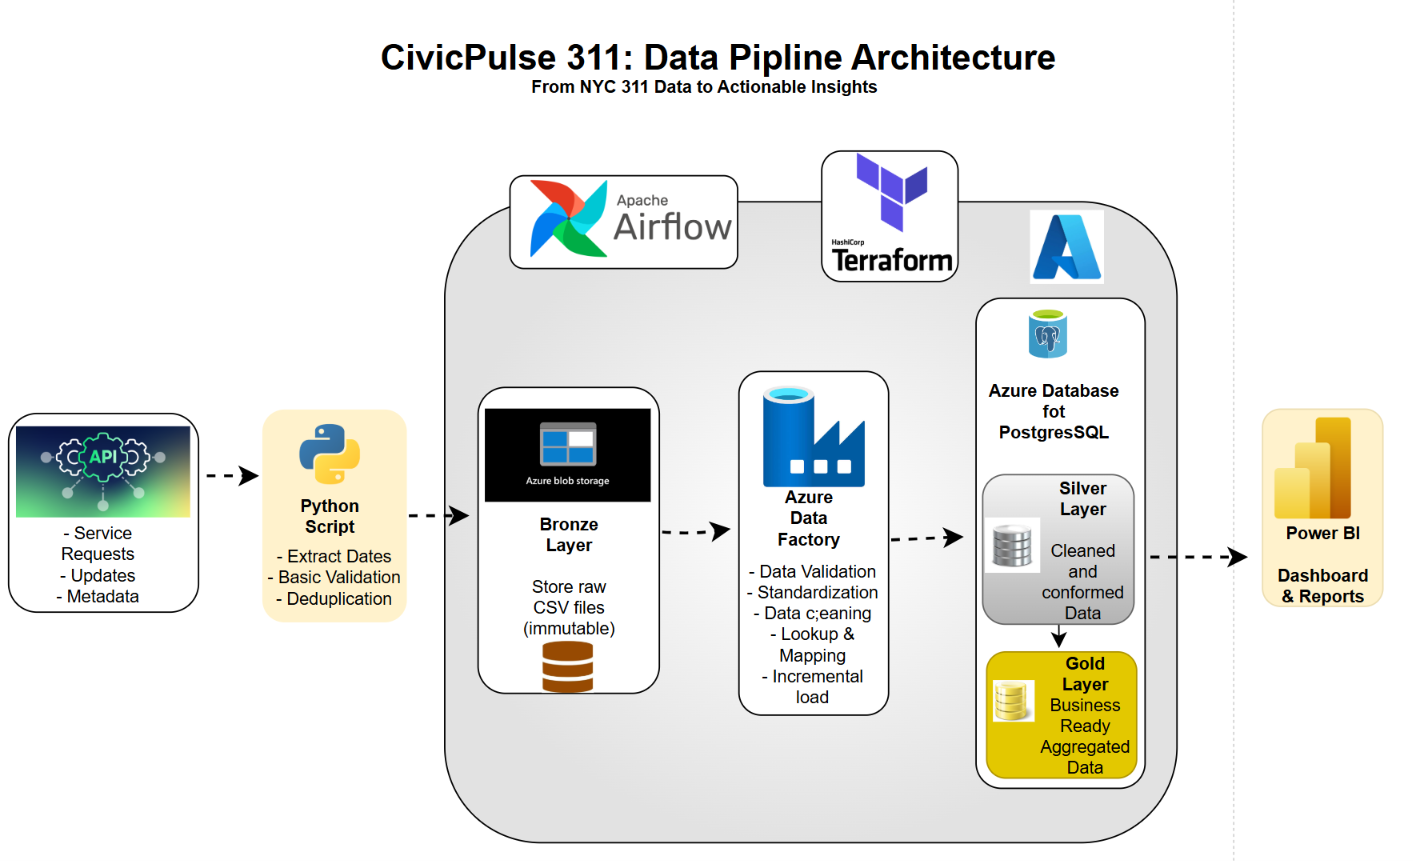
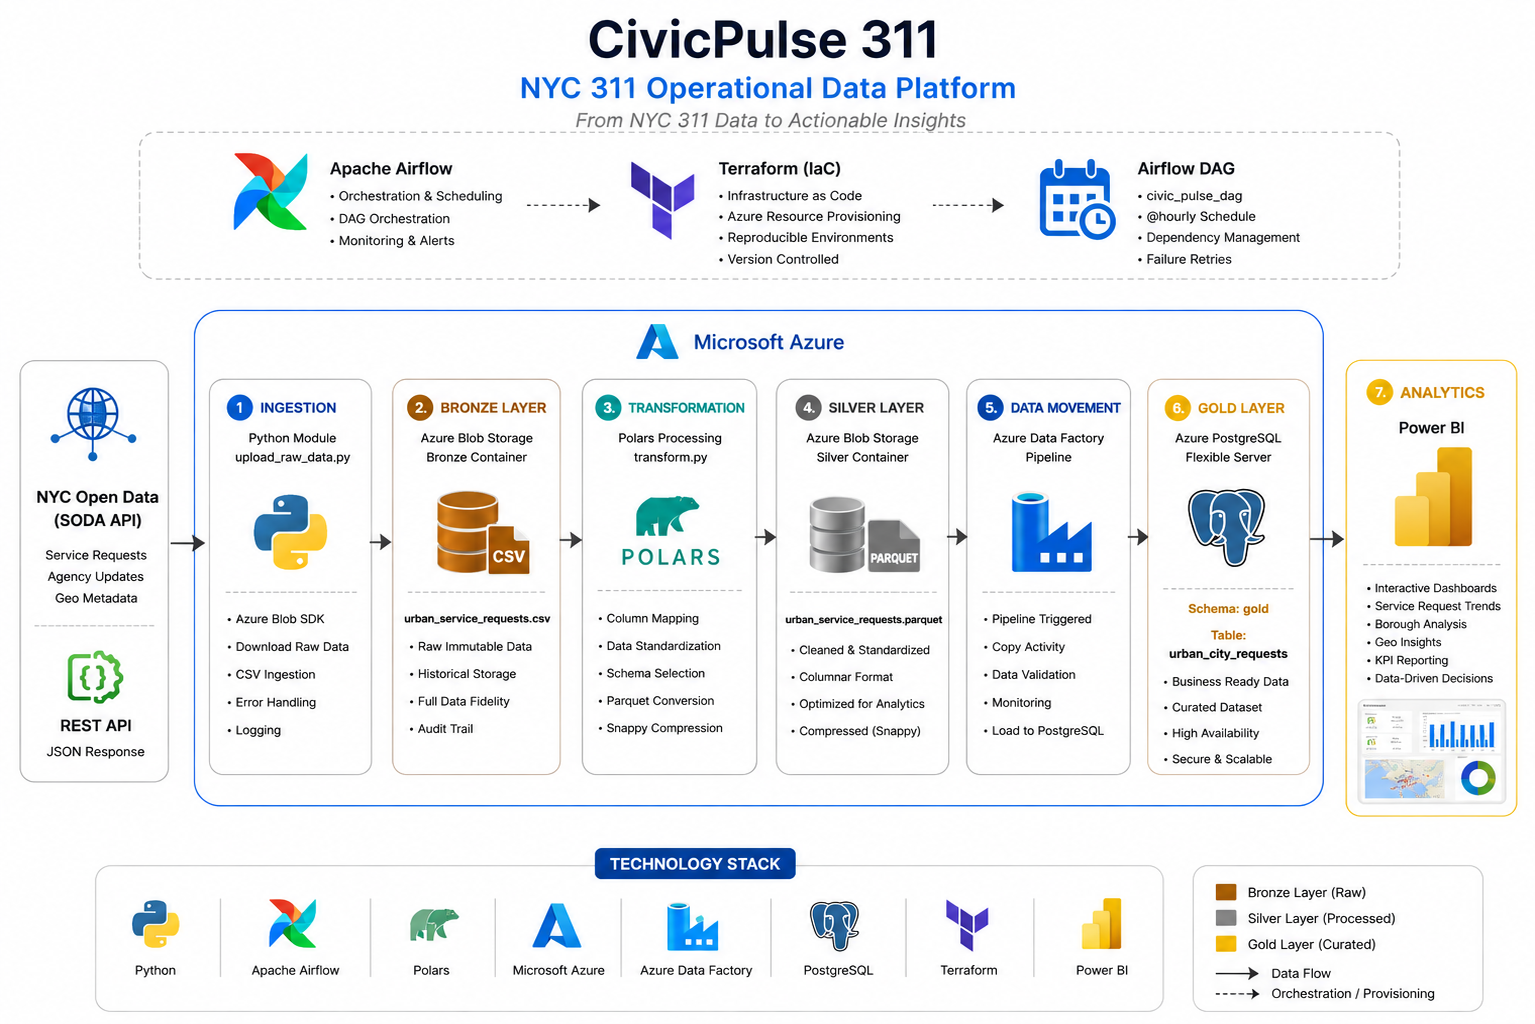
chore(Readme): Updated Readme with detailed architecture, schema, and setup guide, also updated pipeline architecture image

diff --git a/README.md b/README.md
@@ -1,5 +1,6 @@
 # CivicPulse 311 — NYC 311 Operational Data Platform
 
+<<<<<<< HEAD
 CivicPulse 311 is an end-to-end cloud data platform designed to ingest, process, and analyze real-time NYC 311 non-emergency service request data. By modernizing static reporting into an automated analytics architecture, this platform empowers municipal agencies with actionable insights to track SLA compliance, manage request backlogs, and optimize resource allocation across New York City boroughs.
 
 ## 🏗 Architecture Overview
@@ -14,6 +15,180 @@ The platform uses a Lakehouse Medallion Architecture orchestrating data flow fro
 ## 🗂 Repository Structure
 
 ```text
+=======
+An end-to-end Azure cloud data engineering pipeline that transforms NYC 311 service request data into analytics-ready datasets using Apache Airflow, Polars, Azure Blob Storage, Azure Data Factory, PostgreSQL, Terraform, and Power BI.
+
+## 📖 Overview
+
+CivicPulse 311 is a cloud-native data engineering project that automates the ingestion, transformation, storage, and delivery of NYC 311 Open Data for operational reporting and analytics.
+
+The platform follows a Medallion (Bronze–Silver–Gold) Architecture, enabling raw API data to be progressively refined into trusted, business-ready datasets. Infrastructure is provisioned using Terraform, orchestration is managed by Apache Airflow, transformations are performed with Polars, and curated data is stored in Azure Database for PostgreSQL for reporting in Power BI.
+
+This project demonstrates modern data engineering practices including:
+
+Automated pipeline orchestration
+Cloud object storage
+Data lake architecture
+Infrastructure as Code (IaC)
+Incremental ETL processing
+Analytics-ready data modelling
+
+## 🏗 Solution Architecture
+
+## Pipeline Flow
+
+NYC Open Data (SODA API)
+            │
+            ▼
+Python Ingestion Module
+(upload_raw_data.py)
+            │
+            ▼
+Azure Blob Storage
+Bronze Layer (CSV)
+            │
+            ▼
+Polars Transformation
+(transform.py)
+            │
+            ▼
+Azure Blob Storage
+Silver Layer (Parquet)
+            │
+            ▼
+Azure Data Factory
+            │
+            ▼
+Azure PostgreSQL
+Gold Layer
+            │
+            ▼
+Power BI Dashboards
+
+## 🚀 Key Features
+
+- Automated hourly data ingestion with Apache Airflow
+- Raw data landing in Azure Blob Storage (Bronze Layer)
+- High-performance transformation using Polars LazyFrame
+- Conversion from CSV to compressed Parquet
+- Medallion Architecture (Bronze → Silver → Gold)
+- Azure Data Factory pipeline integration
+- PostgreSQL analytical data warehouse
+- Infrastructure provisioned using Terraform
+- Dashboard-ready data model for Power BI
+
+## 🛠 Technology Stack
+## Category	                    Technology
+Programming	                    Python 3
+Workflow Orchestration	        Apache Airflow
+Infrastructure as Code	        Terraform
+Cloud Platform	                Microsoft Azure
+Object Storage	                Azure Blob Storage
+Data Processing	                Polars
+Data Integration	            Azure Data Factory
+Database	                    Azure Database for PostgreSQL Flexible Server
+Analytics	                    Power BI
+Data Format	                    CSV, Parquet
+Version Control	                Git & GitHub
+
+## 🏛 Architecture Layers
+## 🥉 Bronze Layer — Raw Data
+
+### Technology
+
+- Azure Blob Storage
+
+### Purpose
+
+- Stores immutable raw NYC 311 service request data exactly as received from the API.
+
+### Implementation
+
+- Python Azure Blob SDK
+- CSV storage
+- Historical archive
+- Audit-friendly
+
+## 🥈 Silver Layer — Refined Data
+
+### Technology
+
+- Polars
+- Azure Blob Storage
+
+### Purpose
+
+- Transforms raw data into a clean, analytics-friendly format.
+
+### Processing includes
+
+- Column selection
+- Column renaming
+- Schema standardisation
+- Parquet conversion
+- Snappy compression
+
+## 🥇 Gold Layer — Analytics
+
+### Technology
+
+- Azure Database for PostgreSQL
+
+### Purpose
+
+- Stores curated business-ready datasets for reporting and dashboard consumption.
+
+#### Current analytical table:
+
+- gold.urban_city_requests
+
+## ⚙ Airflow Workflow
+
+The pipeline is orchestrated through a single Airflow DAG
+
+Extract Data
+      │
+      ▼
+Upload CSV to Bronze
+      │
+      ▼
+Transform with Polars
+      │
+      ▼
+Create Gold Schema
+      │
+      ▼
+Trigger Azure Data Factory
+      │
+      ▼
+Load into PostgreSQL
+
+### Pipeline schedule:
+
+- Hourly execution
+- Automatic retries
+- Dependency management
+- Modular task design
+
+## ☁ Infrastructure Provisioning
+
+Azure infrastructure is provisioned using Terraform.
+
+Resources include:
+
+- Azure Resource Group
+- Azure Storage Account
+- Bronze Storage Container
+- Silver Storage Container
+- Azure PostgreSQL Flexible Server
+- PostgreSQL Database
+- Azure Data Factory
+- Linked Services
+- Parquet Dataset
+
+## 📂 Repository Structure
+
+>>>>>>> 8a1540a (chore(Readme): Updated Readme with detailed architecture, schema, and setup guide, also updated pipeline architecture image)
 CivicPulse_311-NYC_311_Operational_Data_Platform/
 ├── dags/
 │   ├── civic_pulse.py            # Main Airflow DAG orchestrating the pipeline
@@ -32,3 +207,36 @@ CivicPulse_311-NYC_311_Operational_Data_Platform/
 ├──  Readme
 ├──  LICENSE
 └── requirements.txt              # Python dependency definitions
+<<<<<<< HEAD
+=======
+
+## 📈 Future Enhancements
+
+- Incremental API ingestion using watermarking
+- Data quality validation with Great Expectations
+- CI/CD pipeline using GitHub Actions
+- Container deployment with Azure Container Apps
+- Monitoring with Azure Monitor and Log Analytics
+- Data lineage and metadata catalog
+- Power BI semantic model and enterprise dashboards
+- Star schema with dimension and fact tables
+
+## 👨💻 Author
+
+### Miracle Osabuogbe
+
+#### Cloud Data Engineer | Azure Data Engineer | Data Analytics Engineer
+
+##### Core Skills
+
+- Python
+- SQL
+- Apache Airflow
+- Polars
+- Azure Data Factory
+- Azure Blob Storage
+- PostgreSQL
+- Terraform
+- Docker
+- Power BI
+>>>>>>> 8a1540a (chore(Readme): Updated Readme with detailed architecture, schema, and setup guide, also updated pipeline architecture image)
